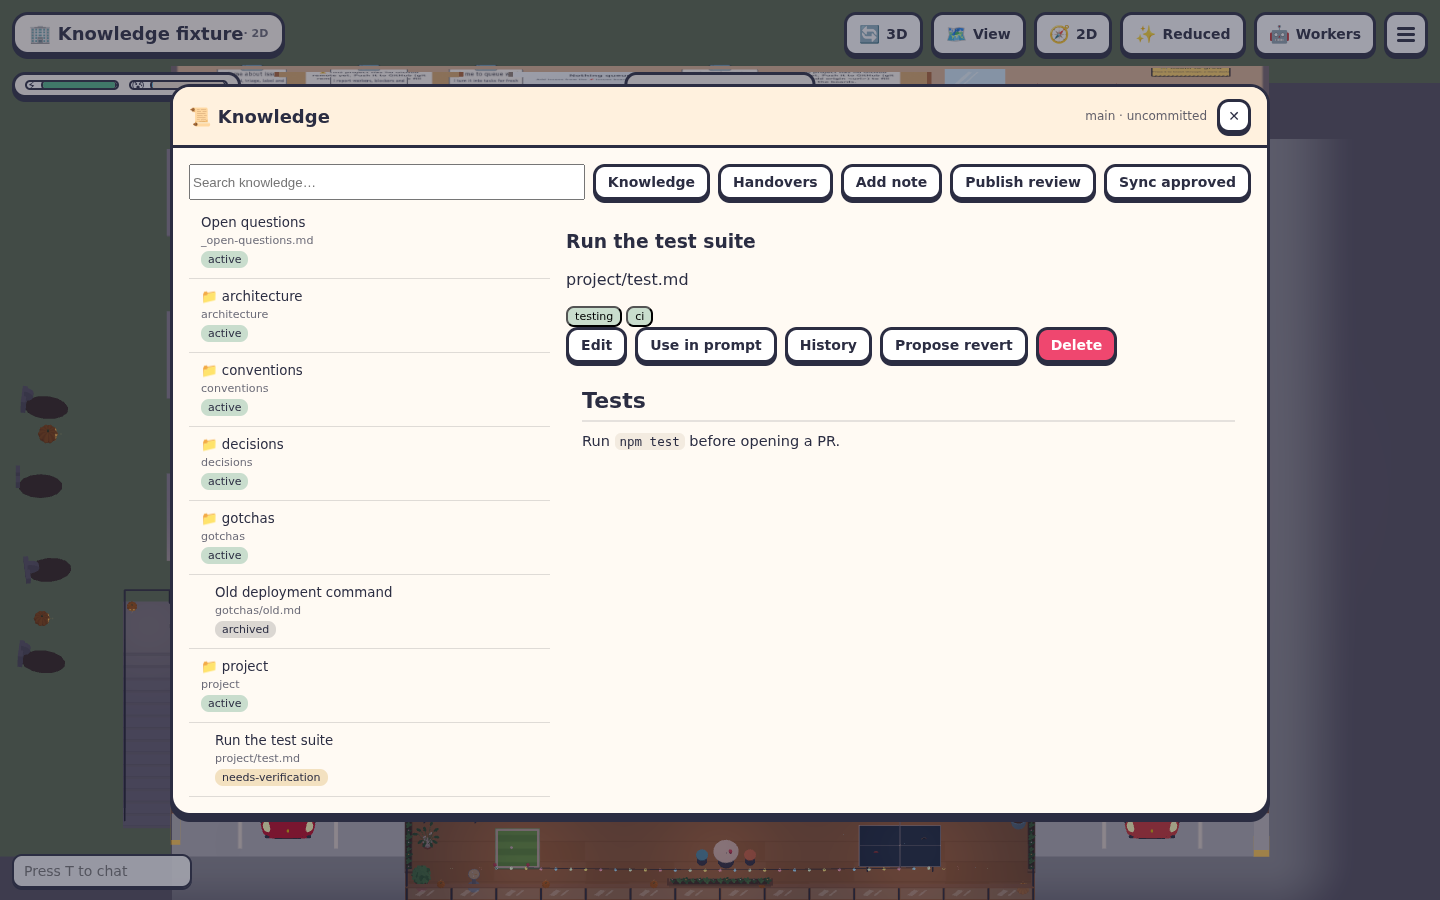
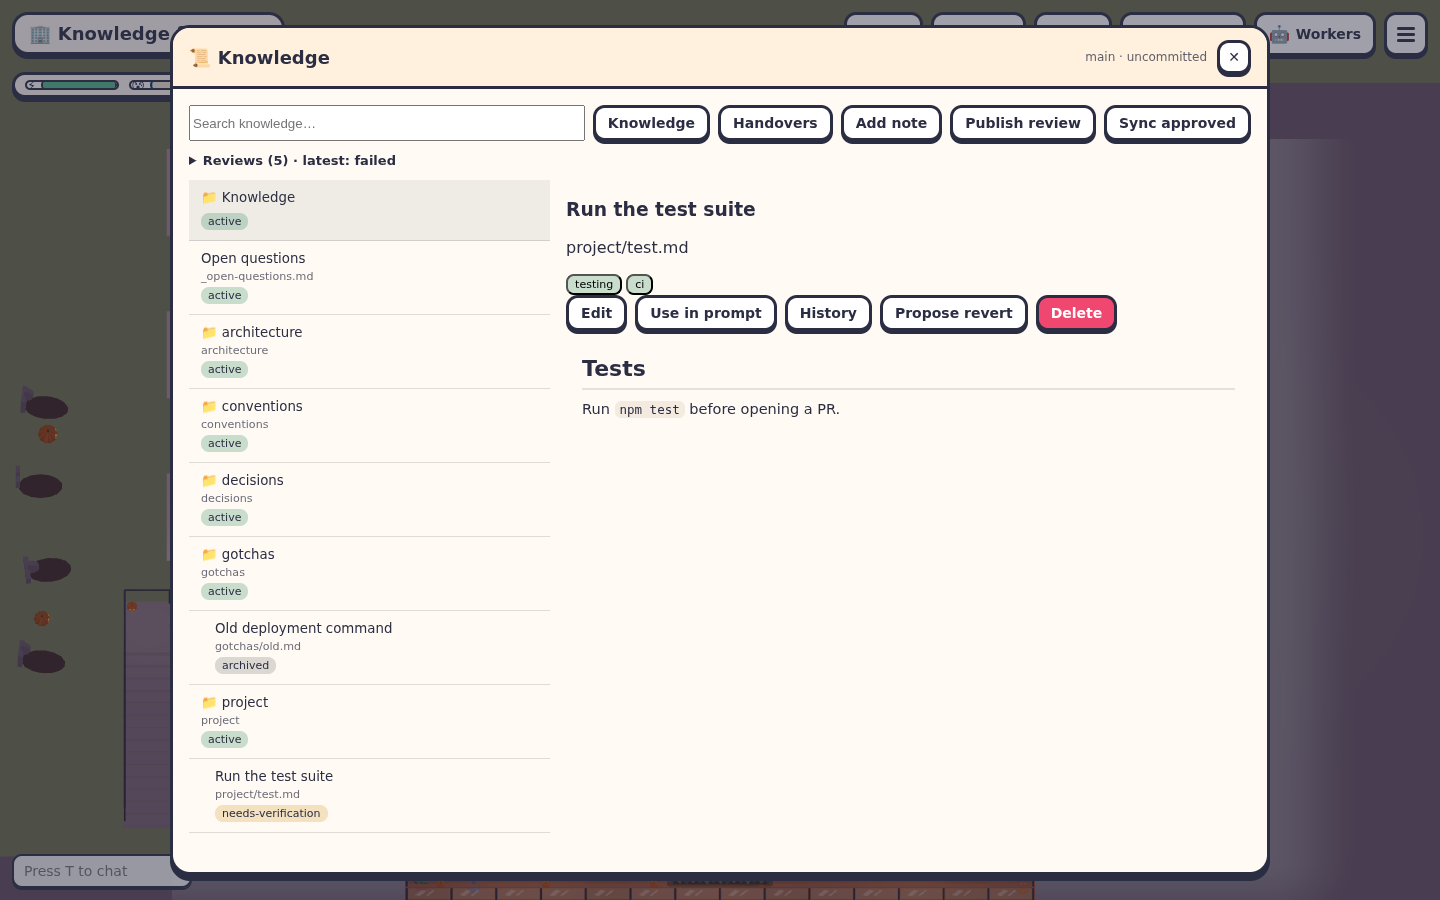
fix: keep knowledge shelf usable with long review errors

Changed region(s): [[0.0938, 0.0, 0.9062, 0.9956]]

diff --git a/src/client/features/knowledge/ui.css b/src/client/features/knowledge/ui.css
@@ -1,16 +1,29 @@
-.knowledge-window { width: min(1100px, 96vw); }
+.modal.knowledge-window { width: min(1100px, 96vw); height: min(850px, calc(100dvh - 32px)); }
+.knowledge-window > header { flex-shrink: 0; }
+.knowledge-window > .body { display: flex; flex-direction: column; flex: 1; min-height: 0; overflow: hidden; }
 .knowledge-toolbar { display: flex; gap: 8px; flex-wrap: wrap; margin-bottom: 12px; }
-.knowledge-toolbar input { flex: 1; min-width: 160px; }
-.knowledge-columns { display: grid; grid-template-columns: minmax(220px, 34%) 1fr; height: 65vh; gap: 16px; }
-.knowledge-tree, .knowledge-note { overflow: auto; }
+.knowledge-toolbar { flex-shrink: 0; }
+.knowledge-toolbar input { flex: 1; min-width: 160px; max-width: 100%; box-sizing: border-box; }
+.knowledge-columns { display: grid; grid-template-columns: minmax(220px, 34%) minmax(0, 1fr); flex: 1; min-height: 0; gap: 16px; }
+.knowledge-tree, .knowledge-note { overflow: auto; min-width: 0; min-height: 0; overflow-wrap: anywhere; }
+.knowledge-reviews { flex-shrink: 0; margin-bottom: 12px; font-size: 13px; }
+.knowledge-reviews[hidden] { display: none; }
+.knowledge-reviews summary { cursor: pointer; font-weight: 700; }
+.knowledge-review-list { max-height: min(150px, 20dvh); overflow: auto; overflow-wrap: anywhere; }
+.knowledge-review-list p { margin: 8px 0; }
 .knowledge-row { display: flex; flex-direction: column; gap: 4px; width: 100%; padding: 10px; border: 0; border-bottom: 1px solid #8884; text-align: left; background: transparent; color: inherit; cursor: pointer; }
 .knowledge-row:hover { background: #8882; }
 .knowledge-row small { opacity: .7; overflow-wrap: anywhere; }
 .knowledge-badge { display: inline-block; width: fit-content; border-radius: 8px; padding: 2px 7px; font-size: 11px; background: #348f6544; margin-right: 4px; }
 .knowledge-badge.needs-verification { background: #d39f3544; }
 .knowledge-badge.archived { background: #7774; }
-.knowledge-branch { font-size: 12px; opacity: .75; }
+.knowledge-branch { font-size: 12px; opacity: .75; min-width: 0; max-width: 40%; overflow: hidden; text-overflow: ellipsis; white-space: nowrap; }
 .knowledge-editor { width: min(850px, 94vw); }
 .knowledge-editor label { display: flex; flex-direction: column; gap: 5px; margin-bottom: 12px; }
 .knowledge-editor textarea { font-family: monospace; }
-@media (max-width: 650px) { .knowledge-columns { grid-template-columns: 1fr; height: auto; } .knowledge-tree { max-height: 30vh; } }
+@media (max-width: 650px) {
+  .knowledge-columns { grid-template-columns: 1fr; grid-template-rows: minmax(0, 1fr) minmax(0, 2fr); gap: 12px; }
+  .knowledge-window > .body { padding: 10px; }
+  .knowledge-window .knowledge-toolbar .btn { padding: 6px 8px; font-size: 12px; }
+  .knowledge-branch { max-width: 28%; }
+}

diff --git a/src/client/features/knowledge/ui.ts b/src/client/features/knowledge/ui.ts
@@ -11,7 +11,9 @@ export function openKnowledge(opts: { net: Net; onUseInPrompt?: (text: string) =
   const right = h('article.knowledge-note'); const branch = h('span.knowledge-branch');
   const search = h('input', { type: 'search', placeholder: 'Search knowledge…', 'aria-label': 'Search knowledge' }) as HTMLInputElement;
   const commit = h('button.btn', { onclick: () => net.send({ t: 'knowledge.commit', title: parsed?.frontmatter.title ?? 'knowledge' }) }, 'Publish review');
-  const reviews = h('div.knowledge-reviews', { 'aria-label': 'Knowledge reviews' });
+  const reviewSummary = h('summary');
+  const reviewList = h('div.knowledge-review-list');
+  const reviews = h('details.knowledge-reviews', { 'aria-label': 'Knowledge reviews' }, reviewSummary, reviewList);
   const body = h('div.knowledge-columns', {}, left, right);
   const modalEl = h('div.modal.knowledge-window', { role: 'dialog', 'aria-label': 'Knowledge' },
     h('header', {}, h('h2', {}, '📜 Knowledge'), branch),
@@ -26,7 +28,10 @@ export function openKnowledge(opts: { net: Net; onUseInPrompt?: (text: string) =
     branch.textContent = `${store.knowledge.branch || 'branch unknown'}${store.knowledge.uncommitted ? ' · uncommitted' : ''}`;
     const deliveries = store.knowledge.deliveries ?? [];
     commit.disabled = deliveries.some(d => d.state === 'preparing' || d.state === 'published');
-    reviews.replaceChildren(...deliveries.slice(-5).map(d => h('p', {},
+    reviews.hidden = deliveries.length === 0;
+    const latest = deliveries.at(-1);
+    reviewSummary.textContent = `Reviews (${deliveries.length})${latest ? ' · latest: ' + latest.state : ''}`;
+    reviewList.replaceChildren(...deliveries.slice(-5).reverse().map(d => h('p', {},
       `${d.state}${d.conflicts?.length ? ' - needs reconciliation: ' + d.conflicts.join(', ') : ''} `,
       ...(d.url ? [h('a', { href: d.url, target: '_blank', rel: 'noopener noreferrer' }, 'Review changes')] : []), d.error ?? '')));
     if (handovers) { left.replaceChildren(...store.knowledge.handovers.map(n => h('button.knowledge-row', { onclick: () => read(n.path, true) }, n.title))); return; }

diff --git a/docs/knowledge.md b/docs/knowledge.md
@@ -8,6 +8,8 @@ The Knowledge shelf is a hierarchical Markdown knowledge base committed with the
 
 Press **E** at the shelf on the west wall beside the basketball hoop, or choose **📜 Knowledge base** in **☰**. The left pane lists directories and notes; the right pane renders Markdown. Every row shows its lifecycle status, including archived and needs-verification notes. Search returns matched lines and adjacent context. Tags are displayed with the selected note.
 
+Review history is collapsed into a status summary above the tree. Expand **Reviews** to read recent delivery errors and review links; long logs scroll inside that section. The tree and selected note scroll independently, and stack vertically on narrow screens.
+
 ![Knowledge shelf with lifecycle badges](knowledge-evidence/knowledge-shelf.png)
 
 The branch label identifies the floor checkout. All workers, including workers with separate code worktrees, read and edit this shared tree immediately. Each note read returns a `version`. Editing, moving, archiving or deleting an existing note requires that version as `expectedVersion`; a new note uses `null`. Stale edits are rejected so the writer can reread and reconcile both changes. File mutations are serialized across processes. A process crash can leave `_meta/state/write.lock`; after confirming no host/CLI is writing, remove that empty lock directory and retry.

diff --git a/README.md b/README.md
@@ -589,4 +589,6 @@ The **☰ Office menu** has a bounded, scrollable action list. Search finds acti
 
 Knowledge is shared immediately across office workers. Use the Knowledge shelf's **Publish review** to persist shared notes in a separate PR and **Sync approved** to apply merged proposals. Curator proposals stay separate until approved; stale note edits are rejected. See [Knowledge Tree](docs/knowledge.md) for review policies and recovery.
 
+The shelf keeps review history in an expandable **Reviews** summary so long delivery errors leave room for browsing. Its tree and note panes scroll independently on desktop and mobile.
+
 Curator failures show bounded, credential-redacted CLI diagnostics and the model used by the run. If a provider request fails intermittently, retry Run now; a failed proposal remains available for inspection.
